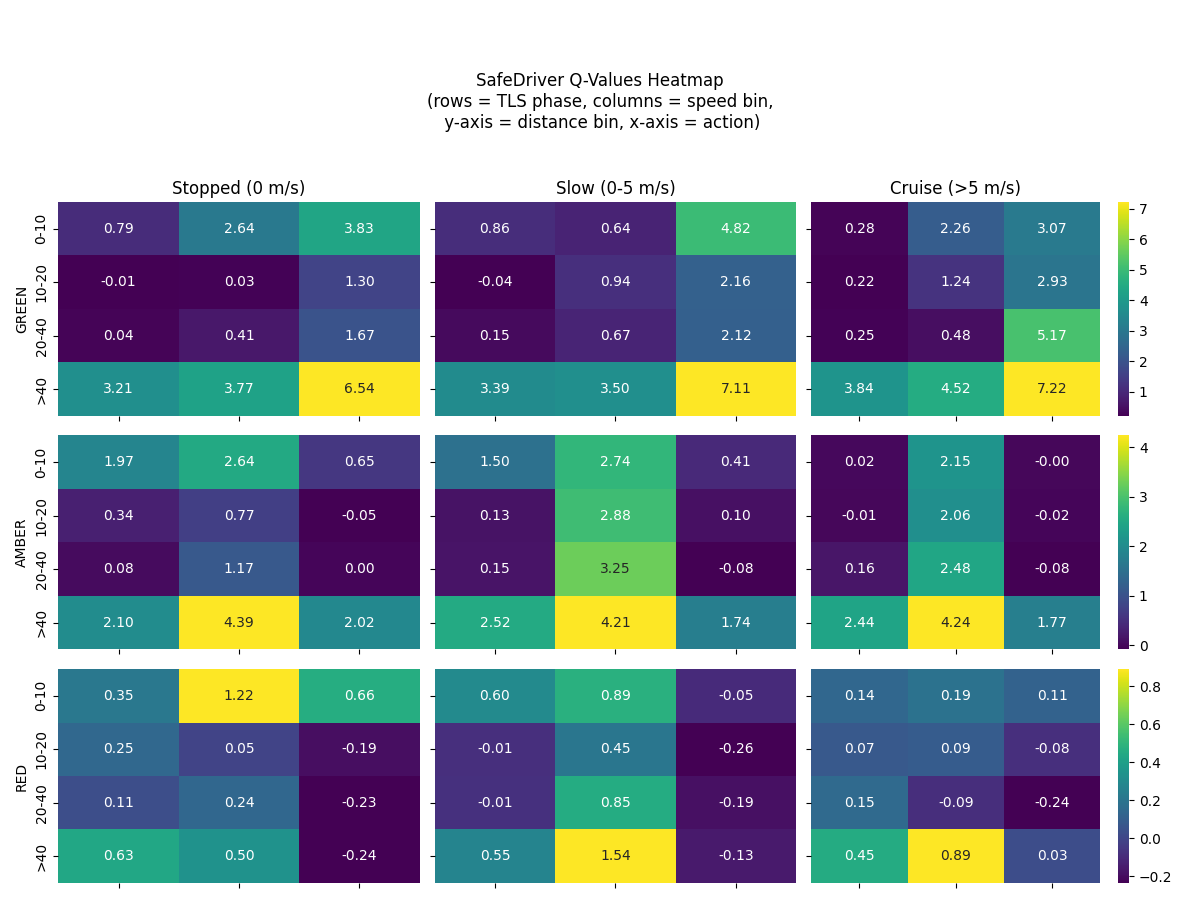
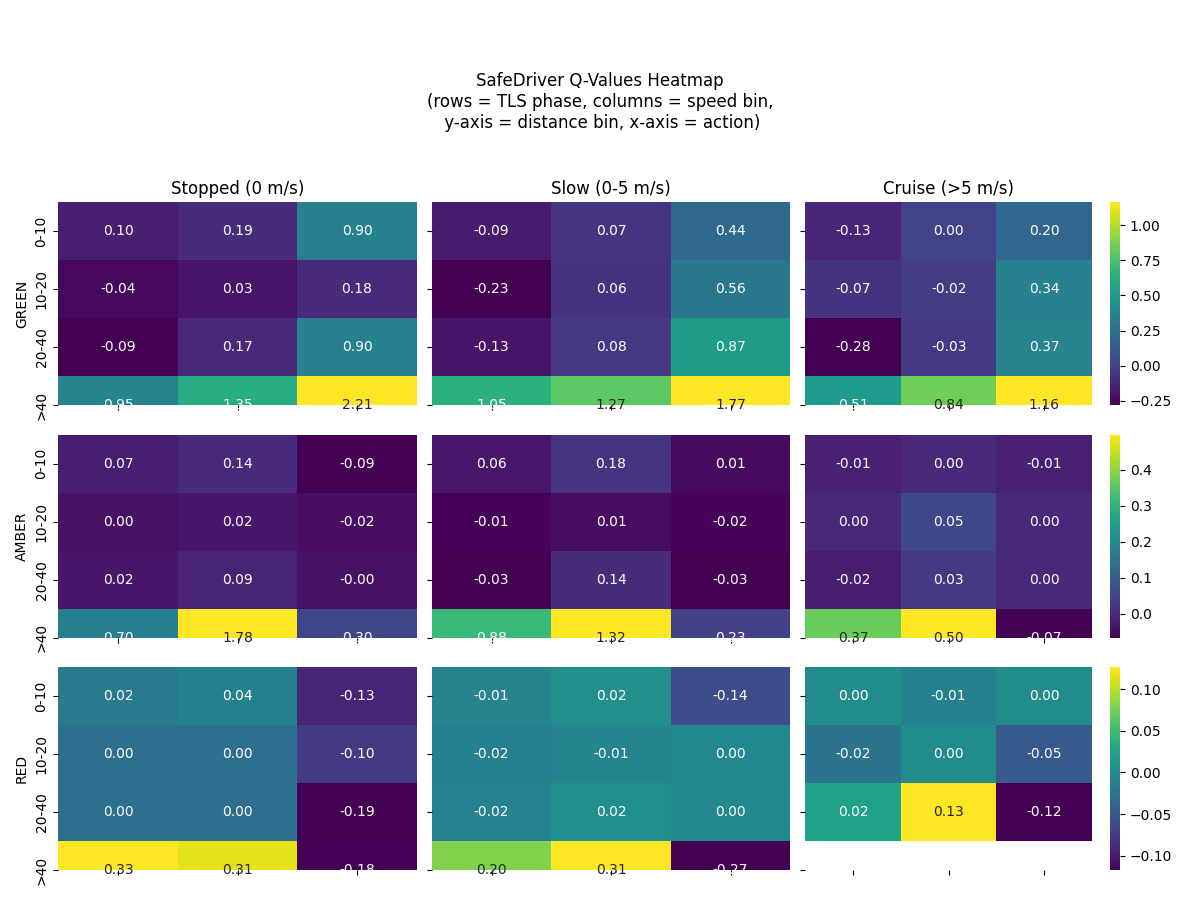
fix: corrected how amber and red runs were recorded for both agents

diff --git a/src/agents/risky_driver.py b/src/agents/risky_driver.py
@@ -89,14 +89,24 @@ class RiskyDriver(QLearningDriver):
         new_state: tuple[str,int,int,int],
         decel: float
     ) -> float:
+        
         # extract dist_bin from previous state
-        dist_bin     = prev_state[1]
+        dist_bin = prev_state[1]
         max_dist_bin = 3
         r = risky_reward(prev_state, action, new_state, dist_bin, max_dist_bin)
+
+        #NOTE: check this works
+        phase = prev_state[0]
+        if phase == "AMBER" and action == "GO":
+            self.recorder.ran_amber()
+        if phase == "RED" and action == "GO":
+            self.recorder.ran_red()
+
         logger.debug(
             "RiskyDriver %s: %s --%s--> %s = %.3f",
             self.vehicle_id, prev_state, action, new_state, r
         )
+
         return r
 
     def apply_action(self, action: str) -> None:

diff --git a/src/agents/safe_driver.py b/src/agents/safe_driver.py
@@ -77,11 +77,21 @@ class SafeDriver(QLearningDriver):
         new_state: tuple[str,int,int,int],
         decel: float
     ) -> float:
+        
         r = safe_reward(prev_state, action, new_state, decel)
+
+        #NOTE: check this works
+        phase = prev_state[0]
+        if phase == "AMBER" and action == "GO":
+            self.recorder.ran_amber()
+        if phase == "RED" and action == "GO":
+            self.recorder.ran_red()
+
         logger.debug(
             "SafeDriver %s: %s --%s--> %s | decel=%.2f = %.3f",
             self.vehicle_id, prev_state, action, new_state, decel, r
         )
+
         return r
 
     def apply_action(self, action: str) -> None:

diff --git a/src/simulation/batch.py b/src/simulation/batch.py
@@ -199,4 +199,4 @@ def main(num_runs: int = 100):
     )
 
 if __name__ == "__main__":
-    main(100)
+    main(3)
